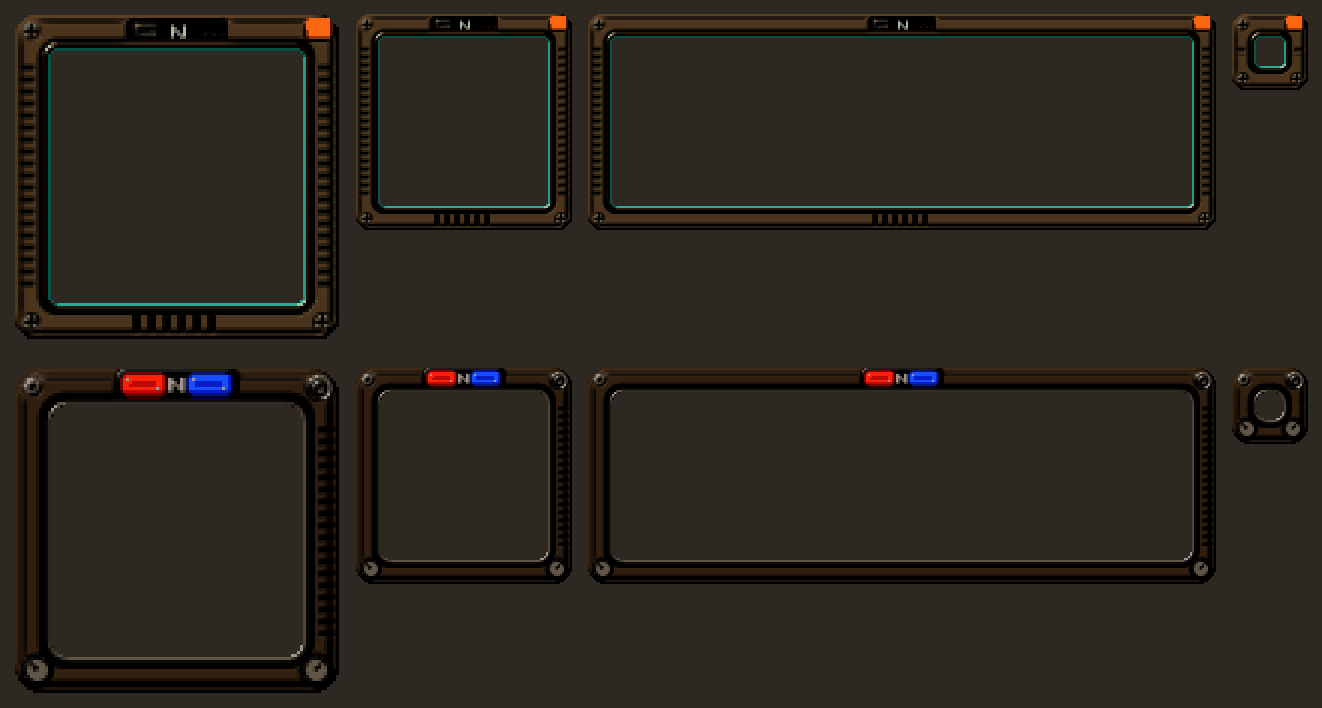
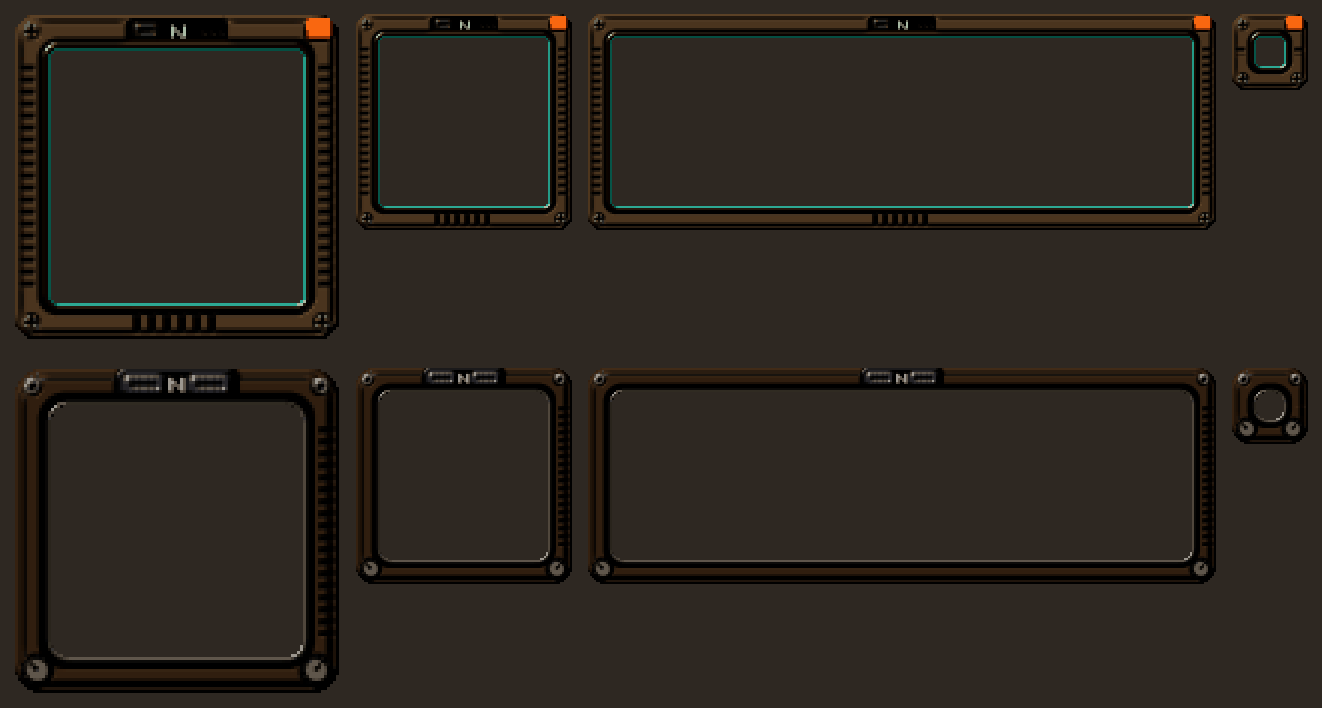
Minimap frame J: the light bar's lenses as two status lamps
The lenses are unlit neutral glass in the frame, and lamp_1x.png is a
lit white lens for the game to tint: the territory's gang colour on
the left, its opinion of the player on the right. The corner lamp is
now a screw. nine.json lists the lamps.

diff --git a/port/docs/minimap/tools/designs.py b/port/docs/minimap/tools/designs.py
@@ -473,15 +473,21 @@ def _screw(c, x, y, r, rgb, top, kind='slot'):
         c.paint(sd_circle(c, x, y, r * 0.42) < 0, dk, add=-0.9)
 
 
-def _lamp_sprite(d, shape):
+def _lamp_sprite(d, shape, rib_x0=None):
     """The lit lamp the game draws over the frame's dark one, white glass to be tinted by a vertex colour."""
     c = Canvas(d.W, d.H)
     sd = shape(c)
     c.paint(sd < 0, (215, 215, 215), spec=1.3, shin=40, height=profile_round(-sd, 3.0, 1.4))
-    c.emit[sd < 0] += 0.1 + 0.25 * np.clip(-sd / 2.5, 0, 1)[sd < 0, None]
+    if rib_x0 is not None:
+        c.alb[_lens_ribs(c, sd, rib_x0)] *= 0.5
+    c.emit[sd < 0] += 0.05 + 0.3 * np.clip(-sd / 2.5, 0, 1)[sd < 0, None]
     c.alpha[sd < 0] = 1
-    d.lamp_rgb = shade(c, ambient=0.35, diffuse=0.9, ao_r=0.8, ao_k=0.3)[0]
+    d.lamp_rgb = shade(c, ambient=0.25, diffuse=1.0, ao_r=0.8, ao_k=0.4)[0]
     d.lamp_alpha = c.alpha
+
+
+def _lens_ribs(c, sd, x0):
+    return (sd < -0.8) & (np.abs(((c.x - x0) / 2.5) % 1 - 0.5) < 0.16)
 
 
 def _lamp(c, shape, top):
@@ -536,14 +542,14 @@ def tracker_handset():
     c.emit[glow] += np.array([0.07, 0.30, 0.26])
     c.alpha[body < 0] = 1
     c.alpha[screen < 0] = 0
-    d.lamp_box = ('tab', 40, 3, 50, 10)
+    d.lamps = [('tab', 40, 3, 50, 10)]
     _lamp_sprite(d, lamp)
     return _finish(d, c, screen)
 
 
 def police_scanner2():
-    """J: a police scanner in dark brown anodised metal: red and blue light bar with an N between, a deep CRT well
-    with a metal lip, vent slots on the right, two knurled knobs below, the status lamp in a metal bezel top right."""
+    """J: a police scanner in dark brown anodised metal: a light bar of two status lamps with an N between, a deep CRT
+    well with a metal lip, vent slots on the right, two knurled knobs below."""
     d = Design(); d.name = 'J_police_scanner'; d.title = 'J  Police scanner'
     d.W = d.H = W = H = 110
     _nine(d, cap=20, rib=12, tab_w=44)
@@ -553,19 +559,17 @@ def police_scanner2():
     c.h_[np.abs(body + 2.5) < 0.45] -= 0.9
     bar = sd_rrect(c, 34, 0.5, 76, 12.5, 4)
     c.paint(bar < 0, hexrgb('#0c0c0e'), spec=0.8, shin=40, height=6.0 + profile_round(np.minimum(-bar, 1.5), 3.0, 1.5))
-    for x0, x1, col, glow in ((36.5, 51.5, '#ff1a08', (0.35, 0.02, 0.0)), (58.5, 73.5, '#1438ff', (0.0, 0.05, 0.40))):
-        lens = sd_rrect(c, x0, 2.5, x1, 10.5, 3)
-        c.paint(lens < 0, hexrgb(col), spec=1.4, shin=50, height=7.5 + profile_round(-lens, 4.0, 2.2))
-        c.emit[lens < 0] += np.array(glow)
-        c.alb[(lens < -0.8) & (np.abs(((c.x - x0) / 2.5) % 1 - 0.5) < 0.16)] *= 0.45
+    # the bar's two lenses, unlit glass: the game lights them in the territory's gang colour and its opinion
+    lens = lambda cc, x0: sd_rrect(cc, x0, 2.5, x0 + 15, 10.5, 3)
+    for x0 in (36.5, 58.5):
+        sd = lens(c, x0)
+        c.paint(sd < 0, hexrgb('#34343a'), spec=1.4, shin=50, height=7.5 + profile_round(-sd, 4.0, 2.2))
+        c.alb[_lens_ribs(c, sd, x0)] *= 0.55
     c.paint(glyph_mask(c, GLYPHS['N'], 52.5, 4.0, 1.0), hexrgb('#e8eae8'), add=0.3)
     vent = (c.x > W - 7.5) & (c.x < W - 2.5) & (c.y > 20) & (c.y < H - 20) & ((((c.y - 20) % 4) - 1.5) ** 2 < 1.0)
     c.paint(vent, hexrgb('#030304'), add=-2.0)
-    _screw(c, 7.0, 7.0, 3.2, GUNMETAL, 6.0, 'hex')
-    ring = sd_circle(c, W - 7.5, 7.5, 4.6)
-    c.paint(ring < 0, GUNMETAL, spec=1.4, shin=60, height=6.0 + profile_round(-ring, 1.6, 1.0))
-    lamp = lambda cc: sd_circle(cc, W - 7.5, 7.5, 3.0)
-    _lamp(c, lamp, 6.4)
+    for x in (7.0, W - 7.0):
+        _screw(c, x, 7.0, 3.2, GUNMETAL, 6.0, 'hex')
     for x, a in ((8.5, -2.3), (W - 8.5, -0.9)):
         y = H - 8.5
         k = sd_circle(c, x, y, 5.6)
@@ -583,8 +587,8 @@ def police_scanner2():
     c.paint(lip, GUNMETAL, spec=1.3, shin=60, height=1.5 + profile_round(screen, 1.4, 0.7))
     c.alpha[body < 0] = 1
     c.alpha[screen < 0] = 0
-    d.lamp_box = ('tr', W - 11, 4, W - 4, 11)
-    _lamp_sprite(d, lamp)
+    d.lamps = [('tab', 36, 2, 52, 11), ('tab', 58, 2, 74, 11)]
+    _lamp_sprite(d, lambda cc: lens(cc, 36.5), 36.5)
     return _finish(d, c, screen)
 
 

diff --git a/port/docs/minimap/tools/make_frames.py b/port/docs/minimap/tools/make_frames.py
@@ -1,5 +1,5 @@
 # Renders the device frames (designs.BUILDERS3, or those named) into assets/frames/<name>, with their 9-slice and
-# status lamp in nine.json, and device_frames.png, a preview of them all. No game data needed.
+# status lamps in nine.json, and device_frames.png, a preview of them all. No game data needed.
 # usage: python3 -I make_frames.py <assets/frames dir> [I J ...]
 import json, os, sys
 sys.path.insert(0, os.path.dirname(os.path.abspath(__file__)))
@@ -72,7 +72,7 @@ def main(out_dir, names):
         if names and d.name.split('_')[0] not in names:
             continue
         out = os.path.join(out_dir, d.name); os.makedirs(out, exist_ok=True)
-        anchor, lx0, ly0, lx1, ly1 = d.lamp_box
+        _, lx0, ly0, lx1, ly1 = d.lamps[0]
         for s in (1, 2):
             # The edges rebuilt from their strips, as the game draws them, then crushed to few colours like the HUD.
             ns = {k: v * s for k, v in d.nine.items()}
@@ -84,7 +84,7 @@ def main(out_dir, names):
             rgba_from(np.dstack([soft(grgb[..., i], s) for i in range(3)]), soft(ga, s)).save(os.path.join(out, 'glass_%dx.png' % s))
             m = soft((d.screen_sd < 0).astype(np.float32), s)
             Image.fromarray((m * 255).astype(np.uint8), 'L').save(os.path.join(out, 'screen_mask_%dx.png' % s))
-        d.nine['lamp'] = dict(anchor=anchor, x=lx0, y=ly0, w=lx1 - lx0, h=ly1 - ly0)
+        d.nine['lamps'] = [dict(anchor=a, x=x0, y=y0, w=x1 - x0, h=y1 - y0) for a, x0, y0, x1, y1 in d.lamps]
         with open(os.path.join(out, 'nine.json'), 'w') as f:
             json.dump(d.nine, f, indent=1)
             f.write('\n')
